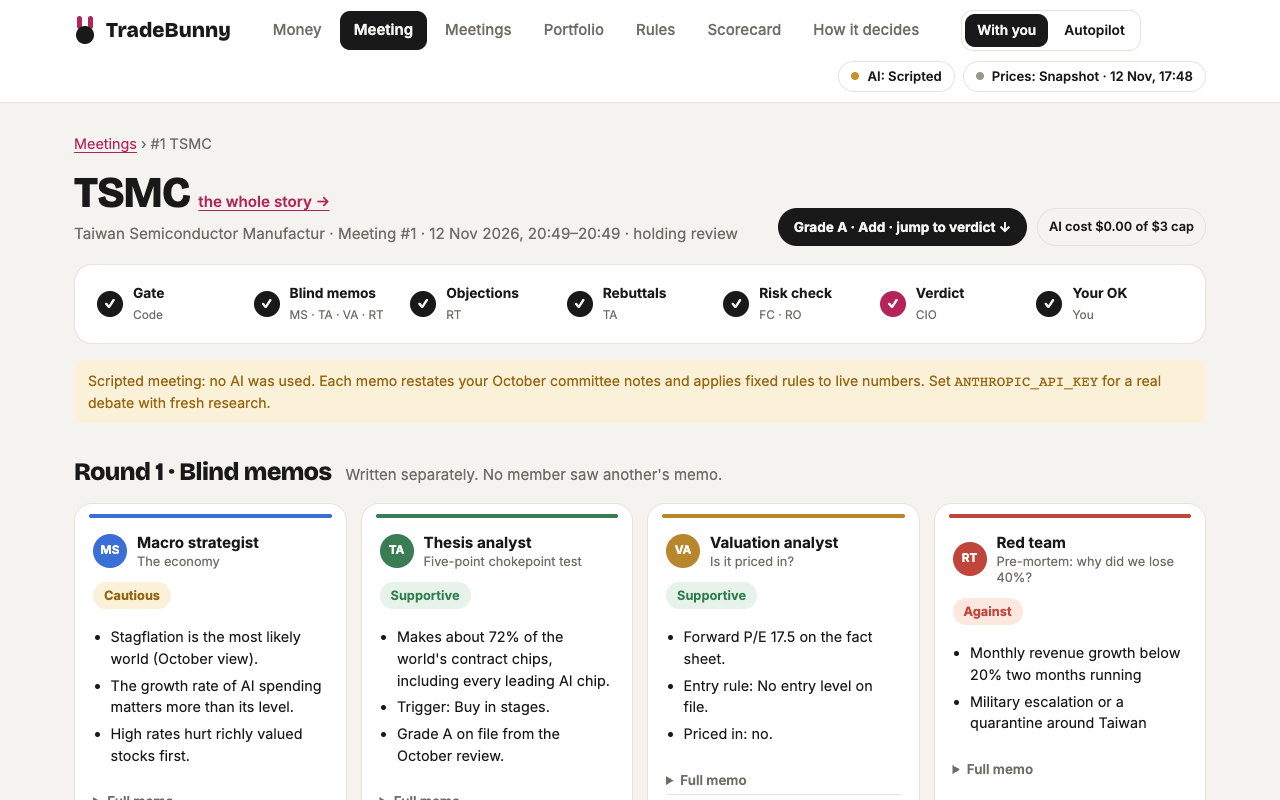
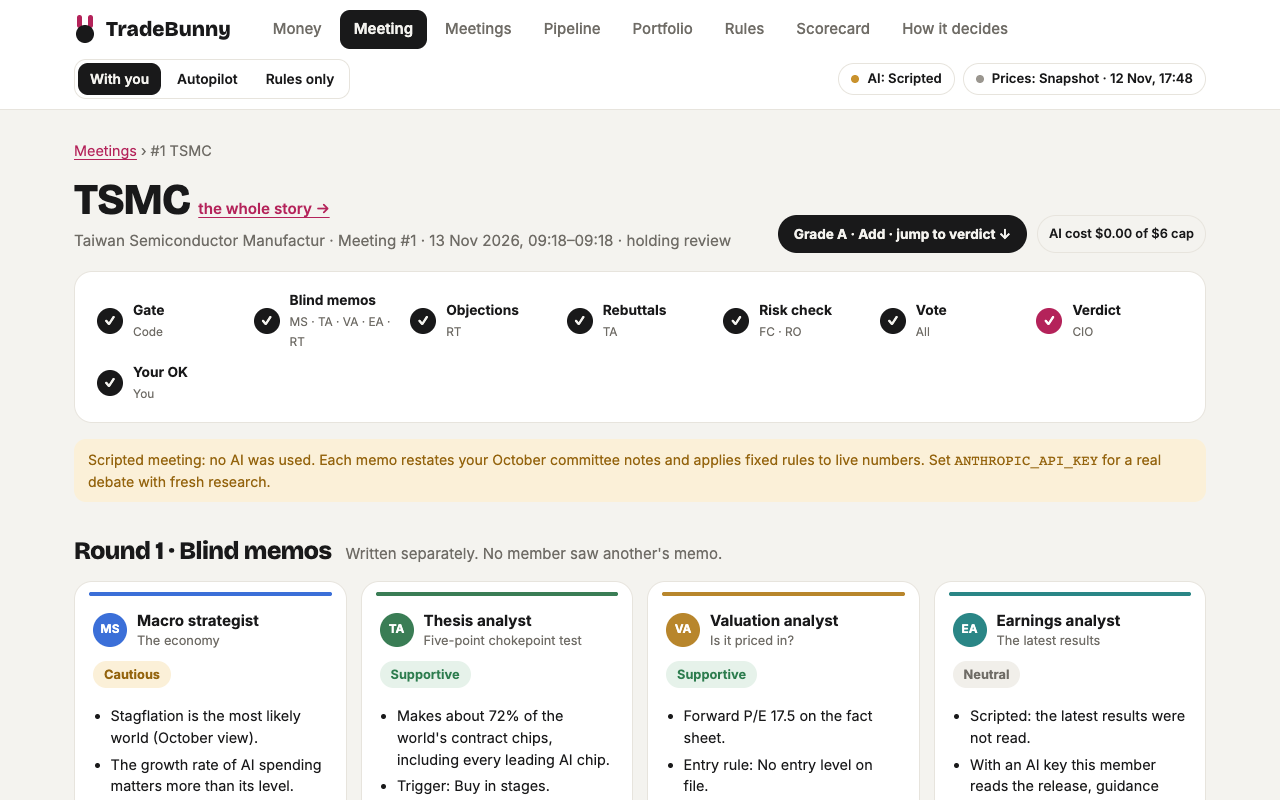
TradeBunny: quant desk, AI only where judgement is needed, three books, new demo, 1,428 tests

diff --git a/index.html b/index.html
@@ -245,11 +245,11 @@ details.more li b{display:block;margin:0 0 1px;font-size:14.5px;color:var(--fg)}
  <a class="back" href="#projects">← All projects</a>
  <div class="dhero dark" style="background:linear-gradient(160deg,#0F3B2A 0%,#0B1F17 60%,#06120D 100%)"><div class="dtext"><div class="plabel">AI investment committee · Paper trading</div><h2>TradeBunny</h2><p>An AI investment committee that debates every trade, with me and a risk engine holding the final say.</p><div class="dbtns"><a class="btn dark" href="https://github.com/lpesseygirod/tradebunny/tree/investment-council" target="_blank">View code on GitHub ↗</a><a class="btn" href="https://github.com/lpesseygirod/tradebunny/tree/investment-council#readme" target="_blank">Read the README</a><a class="btn glass" href="#demo-traderbunny">Watch demo ↓</a></div></div><div class="art big"><div class="shotc"><img src="demos/tradebunny-debate.png" alt="A TradeBunny council meeting: blind memos, objections, rebuttals, risk check and verdict" loading="lazy"></div></div></div>
  <div class="dgrid">
-  <div class="block wide"><h4>Overview</h4><p>TradeBunny is an investment council. A team of AI analysts researches a stock, argues about it and reaches a verdict, and plain code checks every rule before anything is bought. Nothing trades until I approve it. For now it runs a €10,000 paper portfolio at real market prices, measured against simply holding the MSCI World index.</p><div class="more" hidden><p>It started as a crypto grid-trading system. I built an analyst, a walk-forward backtester and an executor, and tested the strategy on 29 crypto pairs. Before the final test I wrote down the rule that would decide it. On data it had never seen, the plain grid lost 1.41% on average, and the one variant that looked profitable earned less from actual trades than the plain grid. So I followed my rule and retired it. That code stays in the repo as chapter one, with its full record.</p><p>Chapter two is an investment committee built on the rules I developed this autumn, run like a fund's pipeline. Every week a scout suggests up to three new ideas, and an analyst writes a research file on each one I want to look at. Shortlisted ideas go to the committee: a macro strategist, a thesis analyst, a valuation analyst, an earnings analyst and a red team write their memos blind, without seeing each other. The red team then ranks its top three objections and the thesis analyst gets one rebuttal. After the debate every member votes buy, wait or no, and the CIO gives a verdict: a grade from A to D, an action, a buy trigger and the condition that would make it sell, answering anyone who voted otherwise.</p><p>The AI never decides a number or an amount. Members may only quote figures from a fact sheet that code builds from market data, each stamped with its source and time. A risk engine in plain code is the only veto: 3–5% per stock, Taiwan capped at 4%, a cap on AI-linked stocks, at most ten single stocks, minimum cash, buying in three tranches, and never selling just because a price fell. My rules live in a strictly validated mandate file that only I edit, so a typo stops the council instead of quietly loosening a limit.</p><p>A verdict becomes a proposal that waits for me and expires after a week. When I approve, the risk engine runs again at today's price, then the first tranche is bought and the other two follow on schedule. A second "autopilot" book runs the same rules and money but approves itself, on paper only, so I can compare my judgment with the council's.</p><p>It learns carefully. Every decision, including the stocks it refused, is checked after 1, 3, 6 and 12 months against the same money in the index. When a call clearly goes wrong, it writes a post-mortem and may propose a lesson, but nothing changes a rule or a prompt unless I approve it. With a handful of decisions a year, an AI that "learns" on its own mostly learns from luck.</p><p>Under the hood, every member returns a validated, structured answer, so the interface can lay out the debate and the risk engine can read the verdict without parsing prose. The red team and the fact-checker run on a different Claude model from the others, so their blind spots differ. Each meeting has an AI cost cap, web pages are treated as data and never as instructions, and a scripted mode with no AI runs the whole pipeline offline. 1,396 tests run offline.</p></div><button class="readmore" type="button" aria-expanded="false">Read more ↓</button></div>
+  <div class="block wide"><h4>Overview</h4><p>TradeBunny is an investment council. A team of AI analysts researches a stock, argues about it and reaches a verdict, and plain code does the maths and checks every rule before anything is bought. Nothing trades until I approve it. For now it runs a €10,000 paper portfolio at real market prices, measured against simply holding the MSCI World index.</p><div class="more" hidden><p>It started as a crypto grid-trading system. I built an analyst, a walk-forward backtester and an executor, and tested the strategy on 29 crypto pairs. Before the final test I wrote down the rule that would decide it. On data it had never seen, the plain grid lost 1.41% on average, and the one variant that looked profitable earned less from actual trades than the plain grid. So I followed my rule and retired it. That code stays in the repo as chapter one, with its full record.</p><p>Chapter two is an investment committee built on the rules I developed this autumn, run like a fund's pipeline. Every week a scout suggests up to three new ideas, and an analyst writes a research file on each one. Shortlisted ideas go to the committee: a macro strategist, a thesis analyst, a valuation analyst, an earnings analyst and a red team write their memos blind, without seeing each other. The red team then ranks its top three objections and the thesis analyst gets one rebuttal. The CIO gives a verdict: a grade from A to D, an action, a buy trigger and the condition that would make it sell, answering every member who voted otherwise. If that verdict would trade, a second CIO decides on its own, and if the second wouldn't trade, neither does the council.</p><p>I use the AI only where reading and judgement are needed. Everything that is arithmetic is code: a quant desk computes volatility, beta, margins, return on capital, P/E against the company's own history and its peers, and a reverse DCF from five years of statements and weekly prices. The risk officer's scenarios and the vote are code too. That took a real meeting from about 24 AI calls to about 9. Each meeting is capped at $6, and each book at $30 a month: over it, the AI waits for next month and the rules keep working.</p><p>The AI never decides a number or an amount. A risk engine in plain code is the only veto: 3–5% per stock, Taiwan capped at 4%, a cap on AI-linked stocks, at most ten single stocks, minimum cash, buying in three tranches, and never selling just because a price fell. My rules live in a strictly validated mandate file that only I edit, so a typo stops the council instead of quietly loosening a limit.</p><p>A verdict becomes a proposal that waits for me and expires after a week. When I approve, the risk engine runs again at today's price, then the first tranche is bought and the other two follow on schedule. I can add a one-line reason, and my own calls are scored like the members'. Two more books run the same money and rules: Autopilot approves itself, and Rules only has no AI at all. If the council can't beat Rules only, the debate isn't earning its cost.</p><p>It learns carefully. Every decision, including the stocks it refused, is checked after 1, 3, 6 and 12 months against the same money in the index. Members also make checkable forecasts that code scores with a Brier score, and the CIO sees a member's record once five have been scored. When a call clearly goes wrong, it writes a post-mortem and may propose a lesson, but nothing changes a rule or a prompt unless I approve it.</p><p>Under the hood, every member returns a validated, structured answer, so the interface can lay out the debate and code can read the verdict without parsing prose. The red team and the fact-checker run on a different Claude model from the others, so their blind spots differ. Web pages are treated as data and never as instructions, and a scripted mode with no AI runs the whole pipeline offline. 1,428 tests run offline.</p></div><button class="readmore" type="button" aria-expanded="false">Read more ↓</button></div>
   <div class="block"><h4>Built with</h4><div class="chips"><span>Python</span><span>Claude API</span><span>Pydantic</span><span>Flask</span><span>SQLite</span><span>yfinance</span><span>NumPy</span><span>statsmodels</span><span>pytest</span></div></div>
-  <div class="block full"><h4>How it works</h4><div class="steps"><div class="step"><em>1</em><b>Scout</b><span>Every week a scout looks for chokepoint companies. Code keeps up to 3 new ideas and turns away any name already held, watched, rejected or without a price.</span></div><div class="step"><em>2</em><b>Research</b><span>An analyst writes the homework on each idea: business, financials, management, competition, risks and sources. At most 4 files a week, rewritten after 90 days.</span></div><div class="step"><em>3</em><b>Debate</b><span>Five members write blind memos, including an earnings analyst who reads the latest results. The red team attacks the thesis and a fact-checker checks the claims.</span></div><div class="step"><em>4</em><b>Vote</b><span>Every member votes buy, wait or no. The CIO grades the stock from A to D and must answer everyone who voted otherwise.</span></div><div class="step"><em>5</em><b>Risk engine</b><span>Plain code sizes the trade or blocks it, rule by rule, and shows which rule passed or failed. It is the only veto.</span></div><div class="step"><em>6</em><b>My OK</b><span>Nothing trades until I approve, and approving re-checks every rule at today's price. Orders go to a paper broker at real prices with fees.</span></div><div class="step"><em>7</em><b>Watch</b><span>Every evening, results days and one-day falls of 10% or more on my holdings raise an alert. A sentinel calls each one noise, noted or urgent. A drop alone never sells.</span></div><div class="step"><em>8</em><b>Scorecard</b><span>Each decision is compared with the index after 1, 3, 6 and 12 months, and once a month the council reviews the whole book and may propose one swap.</span></div></div></div>
-  <div class="block full" id="demo-traderbunny"><h4>Demo</h4><div class="player"><div class="stage"><figure data-t="A decision, start to finish" data-c="The council proposes buying TSMC; I read the debate, approve, and the risk engine re-checks every rule before the paper trade. Then the portfolio, my rules, how it decides, the meetings log and the autopilot book." data-d="48000"><img src="demos/tradebunny-council.webp" alt="The council proposes buying TSMC; I read the debate, approve, and the risk engine re-checks every rule before the paper trade. Then the portfolio, my rules, how it decides, the meetings log and the autopilot book." loading="lazy"></figure><figure data-t="One meeting" data-c="Blind memos from four members, the red team's objections, a rebuttal, a fact-check and risk check, then the CIO's verdict and my OK." data-d="7000"><img src="demos/tradebunny-debate.png" alt="Blind memos from four members, the red team's objections, a rebuttal, a fact-check and risk check, then the CIO's verdict and my OK." loading="lazy"></figure><figure data-t="Every decision, kept" data-c="Each meeting with its grade, decision, buy trigger and the event that would make it sell. The AI cost of each meeting is tracked too." data-d="6000"><img src="demos/tradebunny-meetings.png" alt="Each meeting with its grade, decision, buy trigger and the event that would make it sell. The AI cost of each meeting is tracked too." loading="lazy"></figure><figure data-t="Chapter one: the grid" data-c="The crypto grid analyst on real OKX candles rejects every coin with its reasons, then a walk-forward backtest. Tested on 29 pairs, it had no real edge, so I retired it by my own rule." data-d="17400"><img src="demos/tradebunny-cli.webp" alt="The crypto grid analyst on real OKX candles rejects every coin with its reasons, then a walk-forward backtest. Tested on 29 pairs, it had no real edge, so I retired it by my own rule." loading="lazy"></figure><button class="big" aria-label="Play">▶</button></div><div class="pctl"><button class="pp" aria-label="Pause">❚❚</button><div class="segs"><i><b></b></i><i><b></b></i><i><b></b></i><i><b></b></i></div><button class="pv" aria-label="Previous">‹</button><button class="nx" aria-label="Next">›</button></div><p class="pcap"><b></b> <span></span></p></div><p class="cap">Recorded from the real app running offline: scripted committee members and saved real prices, so no AI calls and no real money.</p></div>
-  <div class="block"><h4>Code</h4><a class="repo" href="https://github.com/lpesseygirod/tradebunny/tree/investment-council" target="_blank"><b>lpesseygirod / tradebunny</b><span>The investment council, the retired grid strategy, and 1,396 offline tests</span><em>Open ↗</em></a><h4 style="margin-top:22px">What's next</h4><ul><li>Run the council on paper for months, until the scorecard has enough decisions to mean something</li><li>Connect Interactive Brokers on a paper account (built and tested against a simulated broker so far)</li><li>Real money only after that, and still with my approval on every order</li></ul></div>
+  <div class="block full"><h4>How it works</h4><div class="steps"><div class="step"><em>1</em><b>Scout</b><span>Every week a scout looks for chokepoint companies. Code keeps up to 3 new ideas and turns away any name already held, watched, rejected or without a price.</span></div><div class="step"><em>2</em><b>Research</b><span>An analyst writes the homework on each idea: business, financials, management, competition, risks and sources. At most 4 files a week, rewritten after 90 days.</span></div><div class="step"><em>3</em><b>Quant desk</b><span>Code computes the numbers from five years of statements and weekly prices: volatility, beta, worst fall, margins, return on capital, P/E against its history and a reverse DCF.</span></div><div class="step"><em>4</em><b>Debate</b><span>Five members write blind memos. The red team, on a different Claude model, ranks three objections against the thesis, and a fact-checker checks the claims.</span></div><div class="step"><em>5</em><b>Verdict</b><span>Code reads each member's vote from what they wrote. The CIO grades the stock from A to D and answers every dissent; a trade also needs a second, independent CIO.</span></div><div class="step"><em>6</em><b>My OK</b><span>Plain code sizes the trade or blocks it, rule by rule; it is the only veto. Then nothing trades until I approve, and approving re-checks every rule at today's price.</span></div><div class="step"><em>7</em><b>Watch</b><span>Every evening, results days and one-day falls of 10% or more on my holdings raise an alert. A fall the index explains is noise. A drop alone never sells.</span></div><div class="step"><em>8</em><b>Scorecard</b><span>Each decision is compared with the index after 1, 3, 6 and 12 months, forecasts get a Brier score, and a Rules-only book with no AI shows whether the debate pays.</span></div></div></div>
+  <div class="block full" id="demo-traderbunny"><h4>Demo</h4><div class="player"><div class="stage"><figure data-t="A decision, start to finish" data-c="The council proposes buying TSMC. I read the debate, check the quant desk and approve with a one-line reason. Then the scorecard, where AI is used and where it isn't, and the Rules-only book with no AI." data-d="53000"><img src="demos/tradebunny-council.webp" alt="The council proposes buying TSMC. I read the debate, check the quant desk and approve with a one-line reason. Then the scorecard, where AI is used and where it isn't, and the Rules-only book with no AI." loading="lazy"></figure><figure data-t="One meeting" data-c="Five blind memos, the red team's objections and the thesis analyst's answers, the fact-check, the risk officer's scenarios, the vote and the CIO's verdict, all on one page." data-d="7000"><img src="demos/tradebunny-debate.png" alt="Five blind memos, the red team's objections and the thesis analyst's answers, the fact-check, the risk officer's scenarios, the vote and the CIO's verdict, all on one page." loading="lazy"></figure><figure data-t="The quant desk" data-c="Numbers the members argue about instead of hunting for, computed by code from five years of statements and weekly prices." data-d="6000"><img src="demos/tradebunny-quant.png" alt="Numbers the members argue about instead of hunting for, computed by code from five years of statements and weekly prices." loading="lazy"></figure><figure data-t="Chapter one: the grid" data-c="The crypto grid analyst on real OKX candles rejects every coin with its reasons, then a walk-forward backtest. Tested on 29 pairs, it had no real edge, so I retired it by my own rule." data-d="17400"><img src="demos/tradebunny-cli.webp" alt="The crypto grid analyst on real OKX candles rejects every coin with its reasons, then a walk-forward backtest. Tested on 29 pairs, it had no real edge, so I retired it by my own rule." loading="lazy"></figure><button class="big" aria-label="Play">▶</button></div><div class="pctl"><button class="pp" aria-label="Pause">❚❚</button><div class="segs"><i><b></b></i><i><b></b></i><i><b></b></i><i><b></b></i></div><button class="pv" aria-label="Previous">‹</button><button class="nx" aria-label="Next">›</button></div><p class="pcap"><b></b> <span></span></p></div><p class="cap">Recorded from the real app running offline: scripted committee members and saved real prices, so no AI calls and no real money.</p></div>
+  <div class="block"><h4>Code</h4><a class="repo" href="https://github.com/lpesseygirod/tradebunny/tree/investment-council" target="_blank"><b>lpesseygirod / tradebunny</b><span>The investment council, the retired grid strategy, and 1,428 offline tests</span><em>Open ↗</em></a><h4 style="margin-top:22px">What's next</h4><ul><li>Run the council on paper for months, until the scorecard has enough decisions to mean something</li><li>See whether it beats the Rules-only book, which uses no AI at all</li><li>Connect Interactive Brokers on a paper account (built and tested against a simulated broker so far)</li><li>Real money only after that, and still with my approval on every order</li></ul></div>
  </div>
 </section><section class="view" id="p-studiply">
  <a class="back" href="#projects">← All projects</a>
@@ -288,9 +288,9 @@ details.more li b{display:block;margin:0 0 1px;font-size:14.5px;color:var(--fg)}
  <div class="sgrid">
   <div class="sk"><b>🤖 AI &amp; LLMs</b><div class="chips"><span>LLM fine-tuning</span><span>Model evaluation</span><span>Local inference</span><span>AI agents &amp; tool use</span><span>Speech-to-text</span><span>Claude API</span></div><details class="more"><summary>Where I've used it</summary><ul><li><b>Fine-tuning (LoRA / QLoRA)</b>I fine-tune open-source Qwen models (9B and 27B) for Sylvie with LoRA on Apple MLX, training at night on my laptop.</li><li><b>Model evaluation</b>Test sets Sylvie never trains on (maths, finance, languages, tool use, general knowledge, style). I only switch to a new version if no set drops by more than 5% and it wins a blind A/B test.</li><li><b>Local inference</b>Sylvie runs fully on my MacBook: a 9B model for everyday chat and a 27B for the best answers, at about 25 tokens per second.</li><li><b>Agents &amp; tool use</b>Survival Council lets the AI create its own sub-agents; in KORE the model calls tools, and code checks anything safety-related before it happens.</li><li><b>Speech</b>Speech-to-text and text-to-speech in Sylvie (Whisper, Kokoro), KORE and Studiply (ElevenLabs).</li><li><b>LLM APIs</b>Claude for Studiply's summaries and quizzes and for KORE's conversations; Grok through an OpenAI-compatible API in Survival Council.</li></ul></details></div>
   <div class="sk"><b>💻 Programming</b><div class="chips"><span>Python</span><span>TypeScript</span><span>React Native</span><span>Swift</span><span>SQL</span><span>C</span></div><details class="more"><summary>Where I've used it</summary><ul><li><b>Python</b>My main language: Survival Council, KORE and TradeBunny are all Python, each with its own test suite.</li><li><b>TypeScript &amp; React Native</b>Studiply is one Expo codebase for the iPhone and the web, with a document editor and a spreadsheet engine with formulas.</li><li><b>Swift / SwiftUI</b>Sylvie's menu bar app on the Mac.</li><li><b>Web back ends</b>FastAPI in Sylvie and Flask for TradeBunny's approval app.</li><li><b>SQL &amp; C</b>SQL in Studiply's database; C from my programming courses at IE.</li></ul></details></div>
-  <div class="sk"><b>🧪 Testing &amp; engineering</b><div class="chips"><span>Automated tests</span><span>Git &amp; GitHub</span><span>Docker</span><span>Playwright</span><span>Linux</span><span>Raspberry Pi</span></div><details class="more"><summary>Where I've used it</summary><ul><li><b>Automated tests</b>Every project runs its tests offline: 1,396 in TradeBunny, over 1,000 in KORE and 59 in Survival Council, with fake services so nothing costs money.</li><li><b>Offline demos</b>Survival Council, KORE and TradeBunny each start on made-up data with one command.</li><li><b>Browser automation</b>Playwright in Survival Council, where card numbers are hidden from the AI.</li><li><b>Deployment</b>Linux services for Survival Council; KORE is built to run on a Raspberry Pi 5 box.</li></ul></details></div>
+  <div class="sk"><b>🧪 Testing &amp; engineering</b><div class="chips"><span>Automated tests</span><span>Git &amp; GitHub</span><span>Docker</span><span>Playwright</span><span>Linux</span><span>Raspberry Pi</span></div><details class="more"><summary>Where I've used it</summary><ul><li><b>Automated tests</b>Every project runs its tests offline: 1,428 in TradeBunny, over 1,000 in KORE and 59 in Survival Council, with fake services so nothing costs money.</li><li><b>Offline demos</b>Survival Council, KORE and TradeBunny each start on made-up data with one command.</li><li><b>Browser automation</b>Playwright in Survival Council, where card numbers are hidden from the AI.</li><li><b>Deployment</b>Linux services for Survival Council; KORE is built to run on a Raspberry Pi 5 box.</li></ul></details></div>
   <div class="sk"><b>☁ Cloud &amp; data</b><div class="chips"><span>Supabase</span><span>PostgreSQL</span><span>SQLite</span><span>Azure (AZ-900)</span><span>Offline sync</span></div><details class="more"><summary>Where I've used it</summary><ul><li><b>Supabase &amp; PostgreSQL</b>Studiply's back end: database migrations, sign-in and server functions that keep the AI keys off the phone.</li><li><b>SQLite</b>Local storage in KORE and Sylvie, and Studiply's offline copy on the iPhone.</li><li><b>Microsoft Azure</b>Azure Fundamentals (AZ-900), November 2026, plus the cloud computing course at IE.</li></ul></details></div>
-  <div class="sk"><b>📈 Business &amp; finance</b><div class="chips"><span>Trading systems</span><span>Backtesting</span><span>Corporate finance</span><span>Financial modelling</span><span>Market validation</span></div><details class="more"><summary>Where I've used it</summary><ul><li><b>Trading systems</b>TradeBunny is an AI investment committee whose trades a plain-code risk engine checks and I approve; before that it was a crypto grid system I tested and retired. Survival Council trades through Alpaca in paper mode.</li><li><b>Backtesting</b>Walk-forward tests in TradeBunny: a grid is fitted on one period and has to hold up on the next.</li><li><b>Market validation</b>At IEU Labs I led the market research for FitCheck and tested the prototype with about 60 potential users.</li><li><b>Finance</b>Corporate finance and financial modelling from my BBA; Power BI and Excel.</li></ul></details></div>
+  <div class="sk"><b>📈 Business &amp; finance</b><div class="chips"><span>Trading systems</span><span>Backtesting</span><span>Corporate finance</span><span>Financial modelling</span><span>Market validation</span></div><details class="more"><summary>Where I've used it</summary><ul><li><b>Trading systems</b>TradeBunny is an AI investment committee whose trades a plain-code risk engine checks and I approve; before that it was a crypto grid system I tested and retired. Survival Council trades through Alpaca in paper mode.</li><li><b>Backtesting</b>Walk-forward tests in TradeBunny: a grid is fitted on one period and has to hold up on the next.</li><li><b>Market validation</b>At IEU Labs I led the market research for FitCheck and tested the prototype with about 60 potential users.</li><li><b>Finance</b>Corporate finance and financial modelling from my BBA, which I used for TradeBunny's quant desk: margins, return on capital, P/E against history and a reverse DCF, computed from company statements. Also Power BI and Excel.</li></ul></details></div>
   <div class="sk"><b>🌍 Languages</b><div class="chips"><span>Spanish</span><span>French</span><span>English · IELTS 7.5 (C1)</span></div><details class="more"><summary>Where I've used it</summary><ul><li><b>Spanish &amp; French</b>Native in both.</li><li><b>English</b>Bilingual level, IELTS Academic 7.5.</li><li><b>In my projects</b>Sylvie talks in all three, and KORE is built in Spanish for the people who use it.</li></ul></details></div>
   <div class="sk"><b>🎓 Education</b><div class="chips"><span>IE University · BBA + CS &amp; AI</span><span>Azure Fundamentals</span></div><details class="more"><summary>Where I've used it</summary><ul><li><b>IE University, Madrid</b>Dual Bachelor in Business Administration and Computer Science &amp; AI, 2025–2030. First-year GPA 8.78/10, Academic Excellence Scholarship.</li><li><b>UNED</b>Dual Degree in Psychology and Criminology by distance learning, alongside IE.</li><li><b>ESADE Business School</b>Business &amp; Entrepreneurship Programme, summer 2024: Honourable Mention (2nd place).</li><li><b>Lycée</b>French International Baccalaureate and American High School Diploma, École Jeannine Manuel, Lille.</li></ul></details></div>
  </div>
